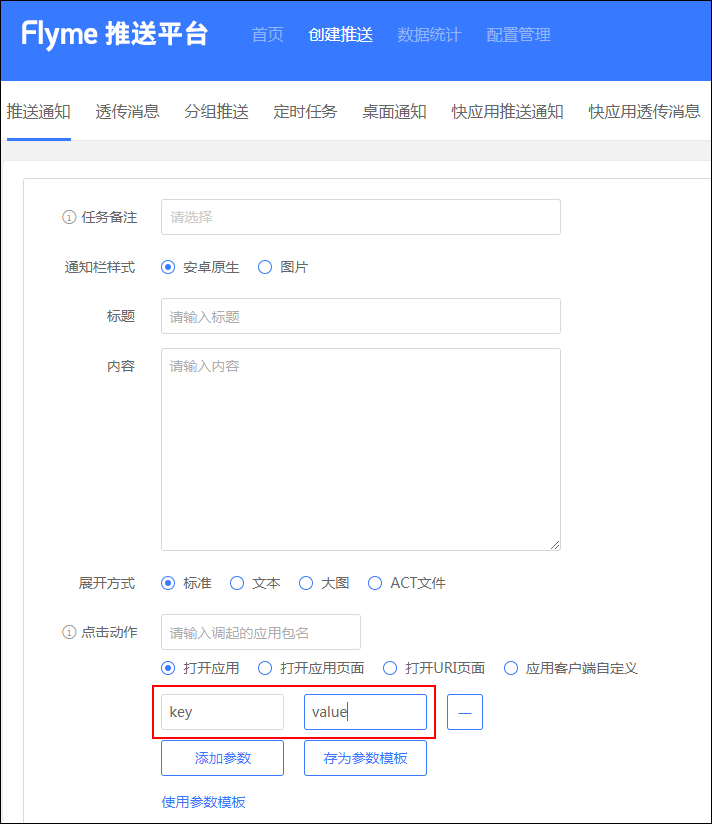
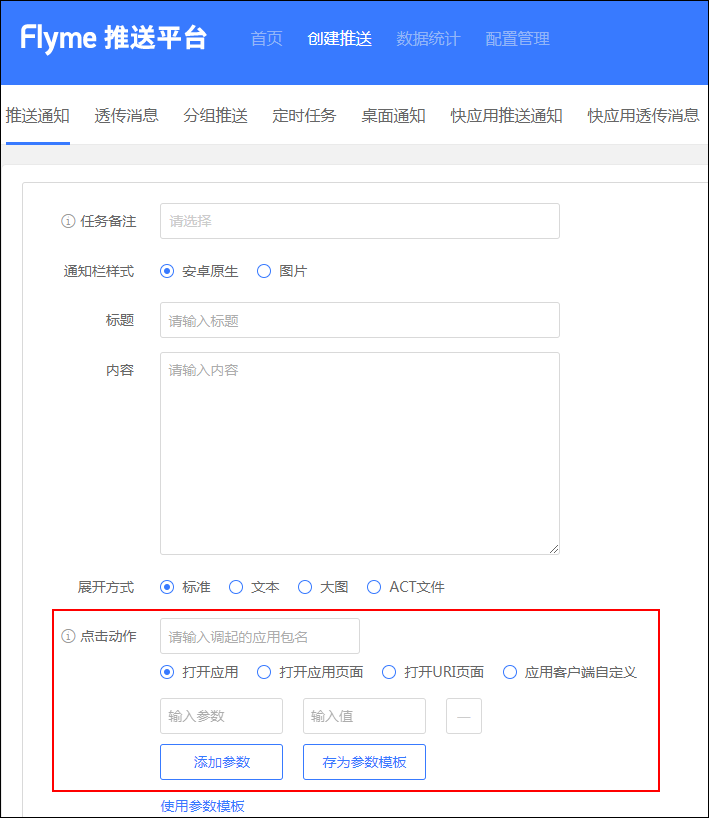
更新开发者文档

diff --git a/README.md b/README.md
@@ -230,8 +230,8 @@ PushManager.register(this, APP_ID, APP_KEY);
 并确保您自定义的消息接收 `Receiver` 类中能在 `onRegisterStatus(RegisterStatus registerStatus)` 方法中正确回调，这样接入就成功了。现在就可以到[Push平台](http://push.meizu.com) 找到您的应用进行消息推送了。
 
 ## 4 功能说明<a name="functional_description"/>
-### 4.1 PushManager接口说明<a name="pushmanager_description"/>
-| 接口名称      | 接口说明| 使用建议|对应MzPushReceiver回调方法|
+### 4.1 PushManager方法说明<a name="pushmanager_description"/>
+| 方法名称      | 方法说明| 使用建议|对应MzPushReceiver回调方法|
 | :--------: | :--------:| :--: |:--: |
 |register(Context context,String appId,String appKey)|订阅|建议在Application onCreate中调用|onRegisterStatus(Context context,RegisterStatus registerStatus)|
 |unRegister(Context context,String appId,String appKey)|反订阅|取消所有推送时使用，请慎用，若取消订阅,将有可能停止所有推送|onUnRegisterStatus(Context context,UnRegisterStatus unRegisterStatus)|
@@ -260,7 +260,7 @@ PushManager.register(this, APP_ID, APP_KEY);
 
 ### 4.2 MzPushReceiver回调方法说明<a name="mzpushreceiver_description"/>
 
-| 接口名称      | 接口说明| 使用建议|
+| 方法名称      | 方法说明| 使用建议|
 | :--------: | :--------:| :--------:|
 |~~onRegister(Context context,String pushId)~~|旧版订阅回调|已废弃|
 |~~onUnRegister(Context context,boolean success)~~|旧版反订阅回调|已废弃|
@@ -280,7 +280,9 @@ PushManager.register(this, APP_ID, APP_KEY);
 在您的应用正确接入PushSDK并在平台上进行消息推送后，所有这些推送消息都是通过Flyme系统应用“推送服务”进行处理和展示。“推送服务”会在云端与客户端之间建立一条稳定、可靠的长连接，从而实现客户端应用实时接收推送平台下发的消息，而且它还充当着通知栏消息创造角色，在您客户端应用进程不在的情况下也能为其创造出通知栏消息。使得能有效地帮助您应用拉动用户活跃度，改善产品体验。
 
 ### 5.2 通知的点击<a name="notification_click"/>
-通知栏消息支持四种点击动作，分别是：打开应用主页、打开应用内页面、打开URI页面 以及 应用客户端自定义。其中前三种打开方式都是通过构建 Intent 的方式，利用 startActivity 方法调起，代码如下：  
+通知栏消息支持四种点击动作，分别是：打开应用主页、打开应用内页面、打开URI页面 以及 应用客户端自定义，如图。  
+![image](download/notification-parameter.png)  
+其中前三种打开方式都是通过构建 Intent 的方式，利用 startActivity 方法调起，代码如下：  
 ```java
         Intent privateIntent = buildIntent(context(), message);
         if(privateIntent != null){
@@ -297,10 +299,7 @@ PushManager.register(this, APP_ID, APP_KEY);
 
 ##### 参数传递
 
-打开应用主页 和 打开应用内页面 都支持附加参数。上述代码中，buildIntent方法内部解析了平台传递的消息打开类型和参数列表，通过`intent.putString("key","value")`的方式在构建Intent时进行添加。   
-平台填写参数值如下图所示：
-
-![image](download/notification-parameter.png)
+打开应用主页 和 打开应用内页面 都支持附加参数。上述代码中，buildIntent方法内部解析了平台传递的消息打开类型和参数列表，通过`intent.putString("key","value")`的方式在构建Intent时进行添加。     
 
 ##### 参数获取
 
@@ -357,7 +356,7 @@ onUnRegisterStatus(Context context,UnRegisterStatus unRegisterStatus)
 
 ### 6.2 设置通知的状态栏小图标<a name="adpter_small_icon"/>
 在 `MzPushReceiver` 中存在 `onUpdateNotificationBuilder(PushNotificationBuilder pushNotificationBuilder)`方法。在目前较新的Flyme系统已经不再需要专门进行状态栏图标的设置，此方法是作用于兼容旧版本Flyme系统中设置消息弹出后状态栏中的小图标。设置小图标代码如下：   
-```java
+```
 @Override
 public void onUpdateNotificationBuilder(PushNotificationBuilder pushNotificationBuilder){
     pushNotificationBuilder.setmStatusbarIcon(R.drawable.mz_push_notification_small_icon);
@@ -435,13 +434,13 @@ onNotificationArrived(Context context, MzPushMessage mzPushMessage)
 ![image](download/question_3.1.png)  
 2. 在[Flyme推送平台后台](http://push.meizu.com/)  【配置管理】-【问题排查】中按从上往下步骤进行相应的状态查询，如下图。  
 ![image](download/question_3.2.png)  
-2.1. 【设备对应关系查询】输入手机的IMEI点击“查询”按钮获得相应的PushId，若提示“PushId未注册”，请执行`PushSDK中PushManager. register(Context context,String appId,String appKey)`进行推送订阅；  
-2.2【设备是否在线查询】输入刚才获得的PushId，点击“查询”按钮查询状态，若手机处理离线状态，解决方法请见[“问题4”](#question_4)；  
-2.3【设备是否订阅查询】输入刚才获得的PushId，点击“查询”按钮查询订阅信息：  
-&nbsp;&nbsp;&nbsp;&nbsp;“是否已经订阅”，若未订阅请执行`PushSDK中PushManager. register(Context context,String appId,String appKey)`方法进行推送订阅；  
-&nbsp;&nbsp;&nbsp;&nbsp;“通知栏开关”，若为关，请执行`PushSDK中PushManager.switchPush(Context context,String appId,String appKey,String pushId,int pushType,boolean switcher)`方法进行打开；  
-&nbsp;&nbsp;&nbsp;&nbsp;“系统通知栏开关”，若为关，解决方法请见[“问题5”](#question_5)；  
-2.4【推送测试】中输入刚才获得的PushId，并点击“推送”按钮，下方显示“已推送 msgId：xxx”代表已经成功发送测试通知。  
+&nbsp;&nbsp;a) 【设备对应关系查询】输入手机的IMEI点击“查询”按钮获得相应的PushId，若提示“PushId未注册”，请执行`PushSDK中PushManager. register(Context context,String appId,String appKey)`进行推送订阅；  
+&nbsp;&nbsp;b) 【设备是否在线查询】输入刚才获得的PushId，点击“查询”按钮查询状态，若手机处理离线状态，解决方法请见[“问题4”](#question_4)；  
+&nbsp;&nbsp;c) 【设备是否订阅查询】输入刚才获得的PushId，点击“查询”按钮查询订阅信息：  
+&nbsp;&nbsp;&nbsp;&nbsp;&nbsp;&nbsp;“是否已经订阅”，若未订阅请执行`PushSDK中PushManager. register(Context context,String appId,String appKey)`方法进行推送订阅；  
+&nbsp;&nbsp;&nbsp;&nbsp;&nbsp;&nbsp;“通知栏开关”，若为关，请执行`PushSDK中PushManager.switchPush(Context context,String appId,String appKey,String pushId,int pushType,boolean switcher)`方法进行打开；  
+&nbsp;&nbsp;&nbsp;&nbsp;&nbsp;&nbsp;“系统通知栏开关”，若为关，解决方法请见[“问题5”](#question_5)；  
+&nbsp;&nbsp;d) 【推送测试】中输入刚才获得的PushId，并点击“推送”按钮，下方显示“已推送 msgId：xxx”代表已经成功发送测试通知。  
 3. 弹出消息时是否存在<font color=#ff0000>Invalid notification (no valid small icon)</font> 异常日志输出？这是设置通知栏图标异常，如果开启了像Andresguard之类的资源路径混淆，尝试在whiteList中添加：R.drawable.stat_sys_third_app_notify。  
 4. 在较老的Flyme系统也出现<font color=#ff0000>Invalid notification (no valid small icon)</font> 异常的话，还可以在drawable不同分辨率文件夹下放置一张名为mz_push_notification_small_icon的图片，并在onUpdateNotificationBuilder回调方法中按文档说明进行设置通知栏小  
 
